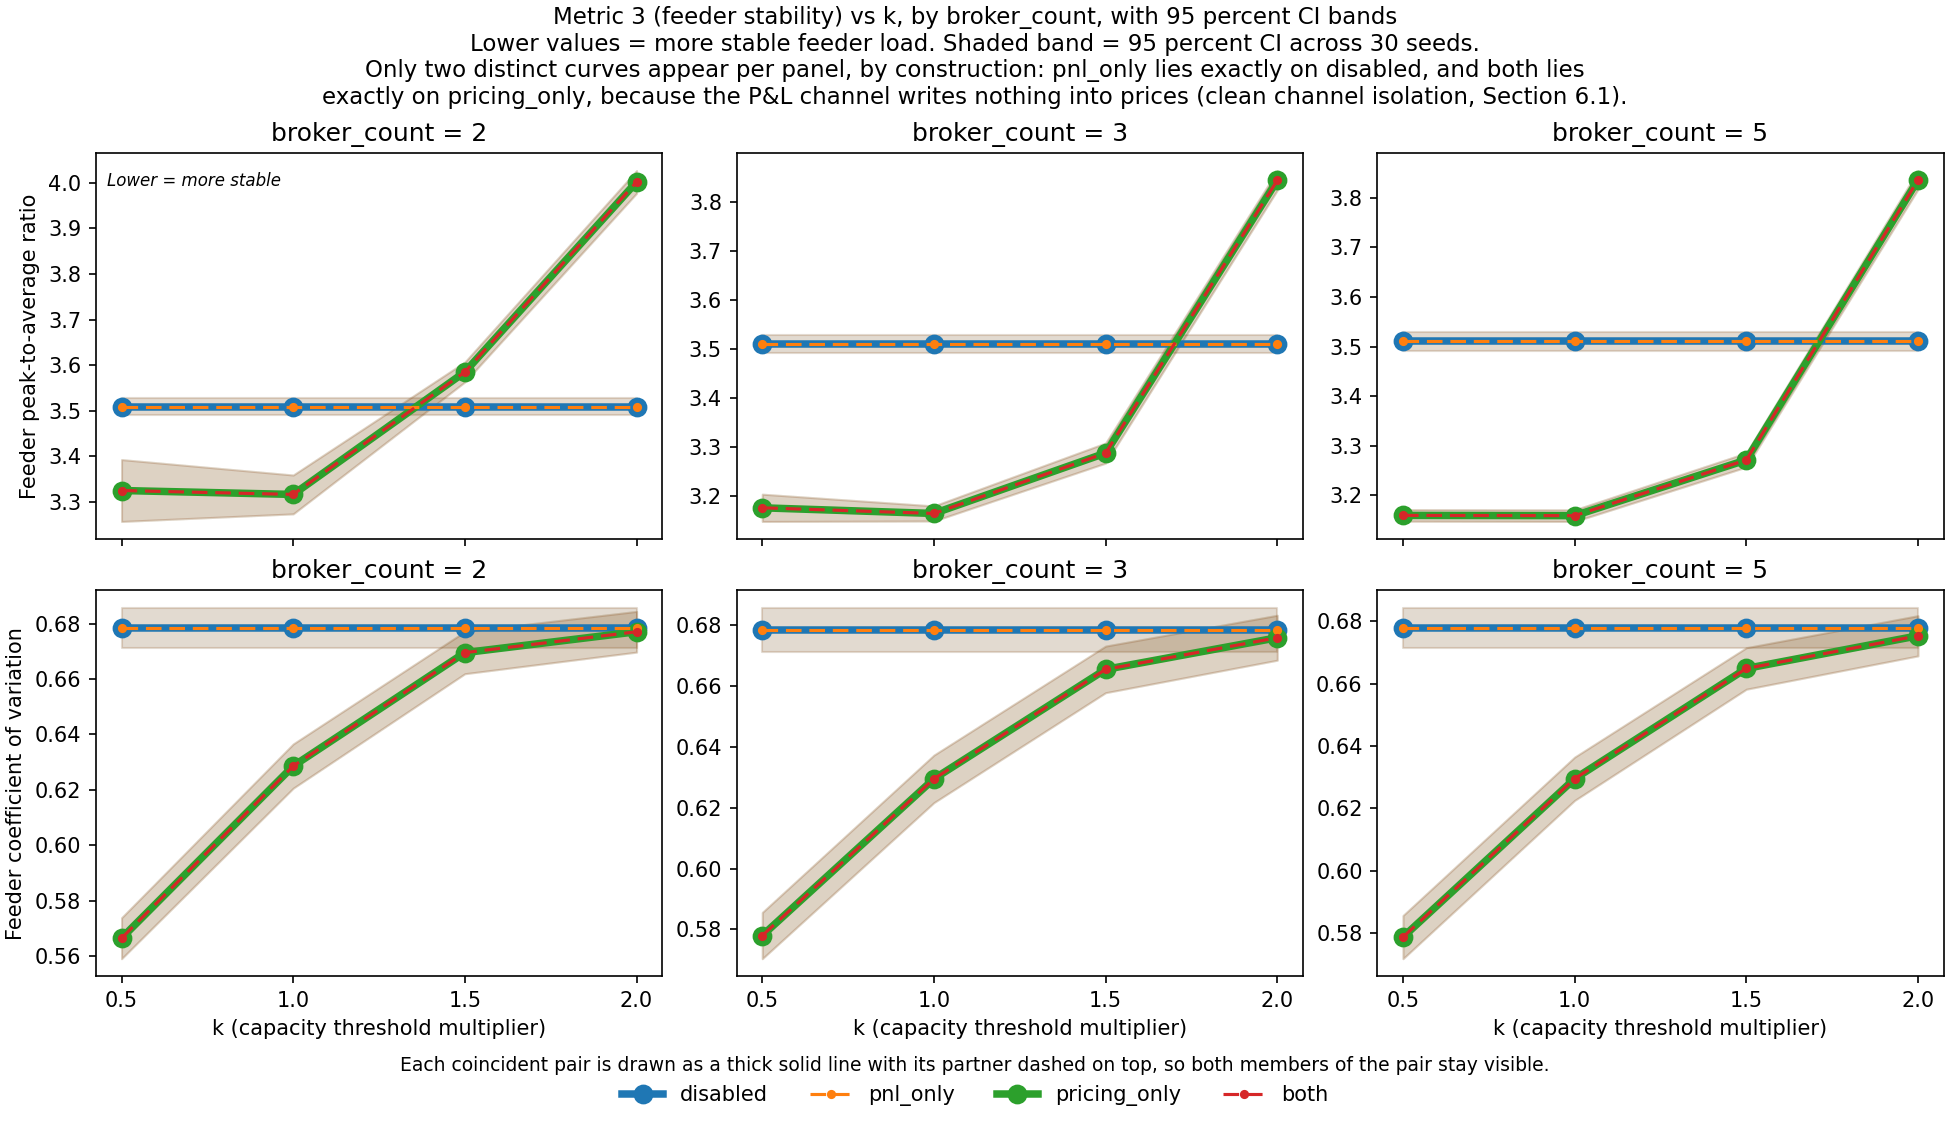
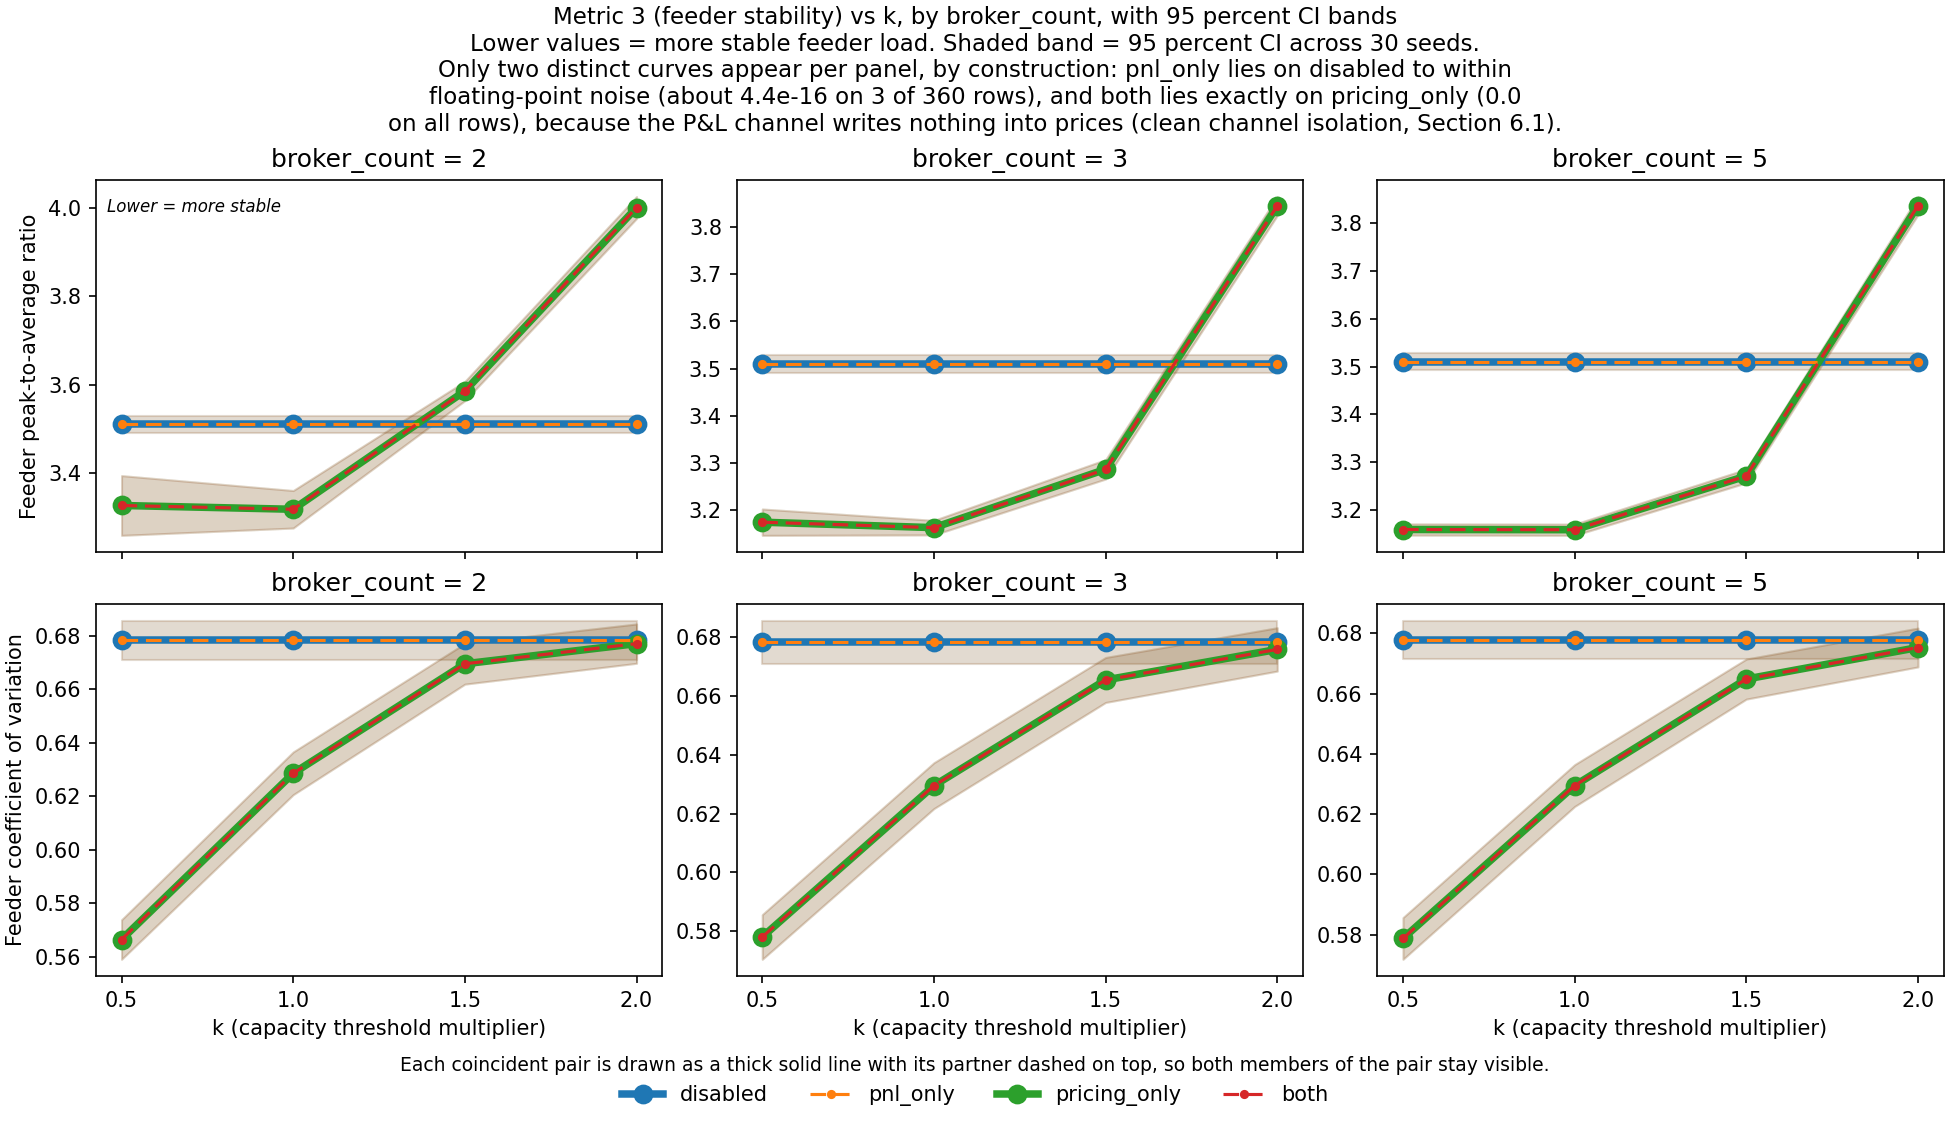
plots: stop calling a 4.4e-16 gap "exactly"
fig_metric3_vs_k.png draws two coincident pairs and the suptitle
described both as exact. Only one is. capacity_both lies on
pricing_only at 0.0 across all five metrics and all 360 rows.
pnl_only lies on disabled at 4.44e-16 on 3 of those 360 rows, which
Section 6.1 already states correctly as "about 4.4e-16" while the
figure said otherwise.

The figure is the thesis's cleanest channel-isolation evidence, so it
is the last place to overstate a number by rounding it to zero in
prose. The two pairs are now described separately and accurately.

Regenerated. Of the five PNGs the script rewrites, only this one
changed; the other four and every CSV came back byte-identical.

diff --git a/scripts/analyze_sweep.py b/scripts/analyze_sweep.py
@@ -770,8 +770,9 @@ def plot_metric3_vs_k(summary_df: pd.DataFrame) -> None:
     fig.suptitle(
         "Metric 3 (feeder stability) vs k, by broker_count, with 95 percent CI bands\n"
         "Lower values = more stable feeder load. Shaded band = 95 percent CI across 30 seeds.\n"
-        "Only two distinct curves appear per panel, by construction: pnl_only lies exactly on disabled, and both lies\n"
-        "exactly on pricing_only, because the P&L channel writes nothing into prices (clean channel isolation, Section 6.1).",
+        "Only two distinct curves appear per panel, by construction: pnl_only lies on disabled to within\n"
+        "floating-point noise (about 4.4e-16 on 3 of 360 rows), and both lies exactly on pricing_only (0.0\n"
+        "on all rows), because the P&L channel writes nothing into prices (clean channel isolation, Section 6.1).",
         fontsize=11,
     )
     fig.savefig(PLOTS_DIR / "fig_metric3_vs_k.png", dpi=150)
